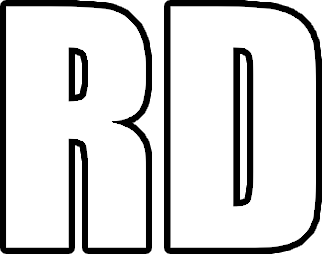
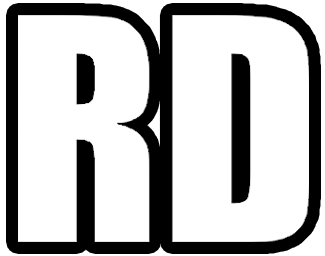
added rd size controller

Changed region(s): [[0.0, 0.0, 1.0, 1.0], [0.7077, 0.1875, 0.8, 0.8125], [0.1846, 0.1875, 0.3077, 0.4062]]

diff --git a/rd/index.html b/rd/index.html
@@ -19,6 +19,7 @@
         <img id="rds" src="rd.png" class="rd" hidden>
     </div>
 </div>
+<input type="range" min="10" max="150" value="80" class="slider2" id="myRange2">
 </body>
 <script>
 var loadFile = function(event) {
@@ -36,6 +37,10 @@ var revealImage = function(){
 var slider = document.getElementById("myRange");
 slider.oninput = function() {
     document.getElementById("rdsa").style.top = this.value+"%";
+}
+var slider2 = document.getElementById("myRange2");
+slider2.oninput = function() {
+    document.getElementById("rds").style.width = this.value+"px";
 }
 </script>
 </html>

diff --git a/rd/zortingen.css b/rd/zortingen.css
@@ -40,3 +40,12 @@
     height: 20px;
     background: white;
 }
+.slider2 {
+    display:inline;
+    position: absolute;
+    bottom: 1%;
+    left: 1%;
+    width: 98%;
+    height: 20px;
+    background: white;
+}
